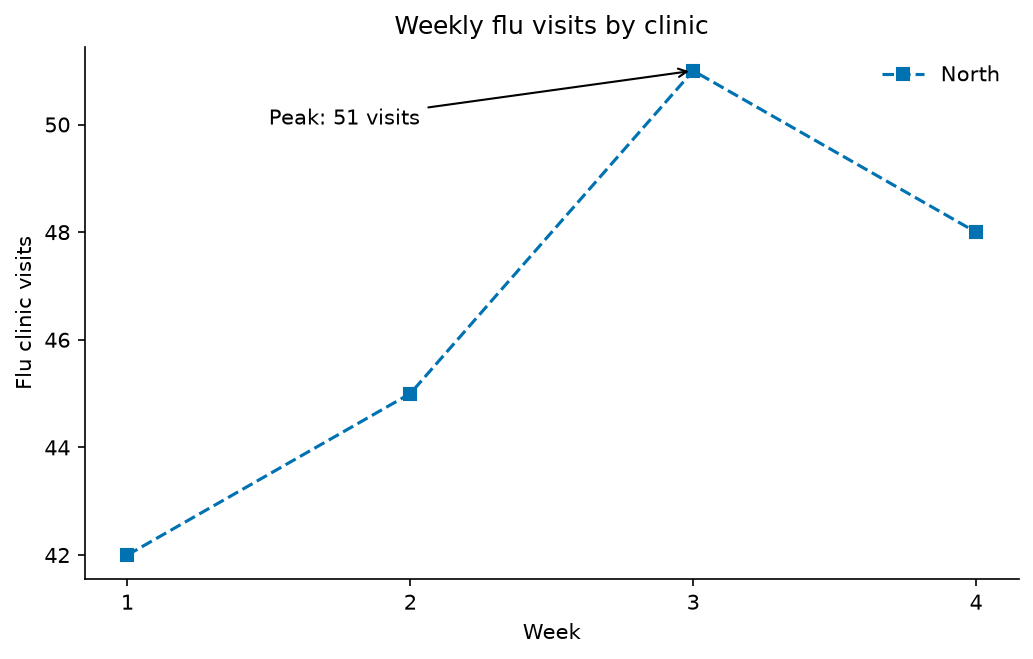
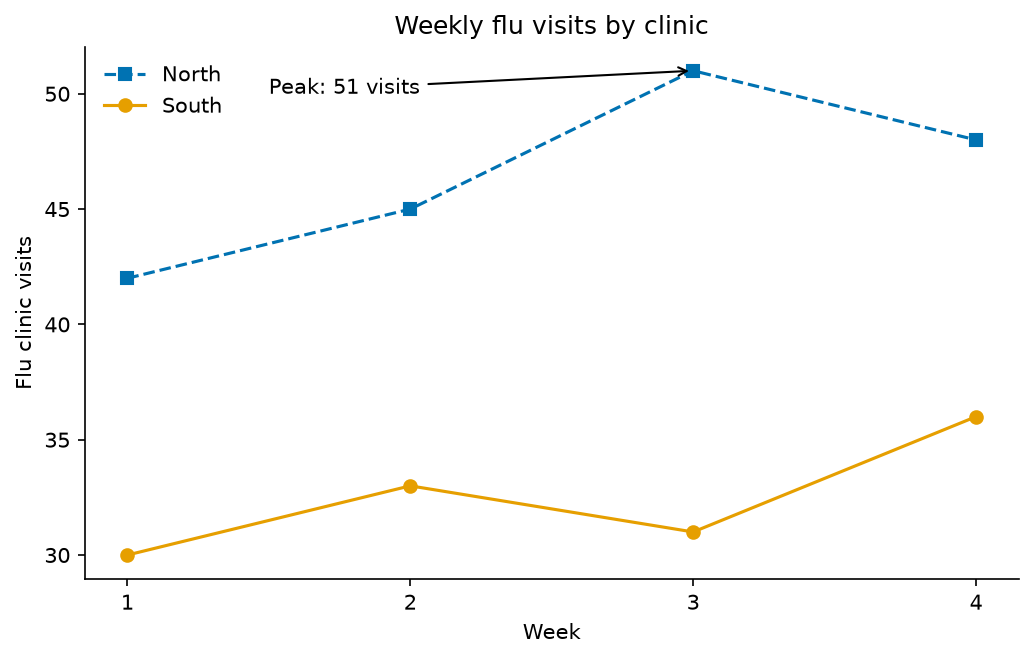
fix: resolve split review findings in Lecture 07

diff --git a/07/scripts/generate_tufte_examples.py b/07/scripts/generate_tufte_examples.py
@@ -28,9 +28,11 @@ def generate_small_multiples():
     rng = np.random.default_rng(42)
     weeks = np.arange(1, 13)
 
+    series = []
     for ax, clinic, size, peak in zip(axes.flat, clinics, sizes, peak_weeks):
         season = np.exp(-((weeks - peak) ** 2) / 8)   # one seasonal peak
         visits = np.round(10 + size * season + rng.normal(0, 3, weeks.size))
+        series.append(visits)
         ax.plot(weeks, visits, linewidth=2, color='#1976D2', marker='o', markersize=3)
         ax.set_title(clinic, fontweight='bold')
         ax.spines['top'].set_visible(False)
@@ -46,6 +48,19 @@ def generate_small_multiples():
     plt.savefig(MEDIA_DIR / 'tufte_small_multiples.png', dpi=150, bbox_inches='tight')
     plt.close()
     print("✓ Generated: tufte_small_multiples.png")
+
+    # The same six series crowded into one panel: the problem small multiples solve.
+    fig, ax = plt.subplots(figsize=(8, 5))
+    for clinic, visits in zip(clinics, series):
+        ax.plot(weeks, visits, linewidth=2, marker='o', markersize=3, label=clinic)
+    ax.set(title='Weekly flu visits at six clinics (one panel)', xlabel='Week', ylabel='Flu visits', ylim=(0, 90))
+    ax.set_facecolor('white')
+    ax.spines[['top', 'right']].set_visible(False)
+    ax.legend(title='Clinic', ncol=3, frameon=False)
+    plt.tight_layout()
+    plt.savefig(MEDIA_DIR / 'tufte_spaghetti.png', dpi=150, bbox_inches='tight')
+    plt.close()
+    print("✓ Generated: tufte_spaghetti.png")
 
 
 def generate_bar_chart_comparison():

diff --git a/07/scripts/generate_lecture_examples.py b/07/scripts/generate_lecture_examples.py
@@ -342,9 +342,10 @@ def render_concept_figures():
         plt.imsave(path, rgb @ [0.299, 0.587, 0.114], cmap='gray', vmin=0, vmax=1)
         print('Generated: accessible_charts.png (grayscale)')
 
-        # The lecture's annotated North line.
+        # The lecture's weekly chart with North's peak annotated.
         fig, ax = plt.subplots(figsize=(7, 4.5))
         ax.plot([1, 2, 3, 4], [42, 45, 51, 48], 's--', color=blue, markersize=6, label='North')
+        ax.plot([1, 2, 3, 4], [30, 33, 31, 36], 'o-', color=orange, markersize=6, label='South')
         ax.set(title='Weekly flu visits by clinic', xlabel='Week', ylabel='Flu clinic visits')
         ax.annotate('Peak: 51 visits', xy=(3, 51), xytext=(1.5, 50), arrowprops=dict(arrowstyle='->'))
         ax.spines[['top', 'right']].set_visible(False)

diff --git a/scripts/build_reference_visuals.py b/scripts/build_reference_visuals.py
@@ -27,8 +27,8 @@ def main():
     sns.kdeplot(x=glucose, ax=axes[1], label="default")
     sns.kdeplot(x=glucose, bw_adjust=0.5, ax=axes[1], label="bw_adjust=0.5")
     axes[1].legend()
-    # 10 mg/dL bins keep the gap between the two clusters visible.
-    sns.histplot(x=glucose, kde=True, bins=np.arange(80, 181, 10), ax=axes[2])
+    # The lecture snippet's call: 10 mg/dL bins keep the gap between the two clusters visible.
+    sns.histplot(x=glucose, kde=True, binwidth=10, binrange=(80, 180), ax=axes[2])
     for ax in axes:
         ax.set_xlabel("Fasting glucose (mg/dL)")
     fig.tight_layout()

diff --git a/07/README.md b/07/README.md
@@ -125,7 +125,7 @@ dtype: object
 ```
 
 - Only `systolic_bp` (mmHg) is a quantitative measure.
-- `patient_id` is an identifier (its average means nothing), `visit_month` is temporal, and `clinic` is categorical.
+- `patient_id` is an identifier (its average means nothing), `visit_month` is temporal (month numbers in time order), and `clinic` is categorical.
 - One row is one visit, so one scatter point is one visit.
 
 ## The Right Chart for the Job
@@ -289,7 +289,7 @@ ax.annotate('Peak: 51 visits', xy=(3, 51), xytext=(1.5, 50),
 
 Expected result: text inside the plot, left of the peak, with an arrow ending at the week-3 point.
 
-![The North line with its week-3 peak annotated and the top and right spines hidden.](media/annotated_flu_line.png)
+![North and South weekly flu visits, North's week-3 peak annotated, and the top and right spines hidden.](media/annotated_flu_line.png)
 
 ### Code Snippet: Save the Figure
 
@@ -318,7 +318,7 @@ Expected result: `flu_visits.png` contains the whole Figure, including its label
 ```text
 matplotlib ← pandas .plot() (default backend)
            ← seaborn
-           ← plotnine
+           ← plotnine (R's ggplot2, ported to Python almost line for line)
 
 Vega-Lite  ← Altair
 
@@ -528,7 +528,7 @@ print(ax.get_lines()[0].get_ydata())  # y-values seaborn drew, one mean per week
 | Call | Purpose and key arguments | Output |
 | :--- | :--- | :--- |
 | `df.plot.density()` | Quick KDE for numeric columns (needs SciPy) | `Axes` |
-| `sns.histplot(data=df, x='col', kde=True)` | Compare bins with a smooth density estimate | `Axes` |
+| `sns.histplot(data=df, x='col', kde=True, binwidth=10)` | Compare bins with a smooth density estimate; `binwidth=` sets each bin's width and `binrange=(low, high)` where bins start and stop | `Axes` |
 | `sns.kdeplot(data=df, x='col')` | Show a smoothed distribution alone | `Axes` |
 | `sns.kdeplot(..., bw_adjust=0.5)` | Narrower bumps: less smoothing, more detail | `Axes` |
 
@@ -537,11 +537,11 @@ print(ax.get_lines()[0].get_ydata())  # y-values seaborn drew, one mean per week
 `glucose` is a pandas Series holding the twelve readings in the visual: `[84, 88, 91, 93, 95, 96, 98, 101, 156, 161, 166, 172]` mg/dL.
 
 ```python
-ax = sns.histplot(x=glucose, kde=True)
+ax = sns.histplot(x=glucose, kde=True, binwidth=10, binrange=(80, 180))
 ax.set_xlabel('Fasting glucose (mg/dL)')
 ```
 
-Expected result: peaks near 94 and 163 mg/dL, with counts on the y-axis.
+Expected result: ten bars from 80 to 180 mg/dL with counts 2, 5, 1, 0, 0, 0, 0, 1, 2, 1 (the visual's right panel), and a curve peaking near 94 and 163 mg/dL, scaled to the count axis.
 
 ### Code Snippet: Draw a pandas Density Curve
 
@@ -636,7 +636,7 @@ Common distortions to avoid:
 
 **Small multiples** are small, repeated charts on one shared scale, so readers compare categories or time periods at a glance; `sharey=True` from the pandas section draws them.
 
-![About 30 years of gold returns as overlapping lines in one panel: only the highlighted 2020 line can be followed.](media/gold.jpg)
+![The six clinics' weekly flu visits crowded into one panel: the lines cross between weeks 4 and 10, so comparing two clinics means tracing colors through the tangle.](media/tufte_spaghetti.png)
 
 ![Six clinics on one shared y-axis, so Central's tall week-6 flu peak and West's low week-8 peak compare at a glance.](media/tufte_small_multiples.png)
 
@@ -741,7 +741,7 @@ Expected result: `58%` and `64%` appear above North's bars.
 
 ## Data, Mark, and Typed Encodings
 
-An Altair chart is **data → mark → typed encodings**, and each field carries a type letter from the contract's data types: categorical → `:N` (nominal), ordinal → `:O`, quantitative → `:Q`, temporal → `:T`, which needs real dates, so convert month numbers with `pd.to_datetime()` first.
+An Altair chart is **data → mark → typed encodings**, and each field carries a type letter from the contract's data types: categorical → `:N` (nominal), ordinal → `:O`, quantitative → `:Q`, temporal → `:T`. `:T` reads its values as dates: month numbers typed `:T` are read as milliseconds after 1970, so convert them with `pd.to_datetime()` first, or type them `:O`.
 
 ![The `study` table built in three steps: a mark with quantitative x and y; color and shape typed `:N` for clinic; then axis titles with units and a y-scale that starts near the data.](media/altair_three_steps.png)
 
